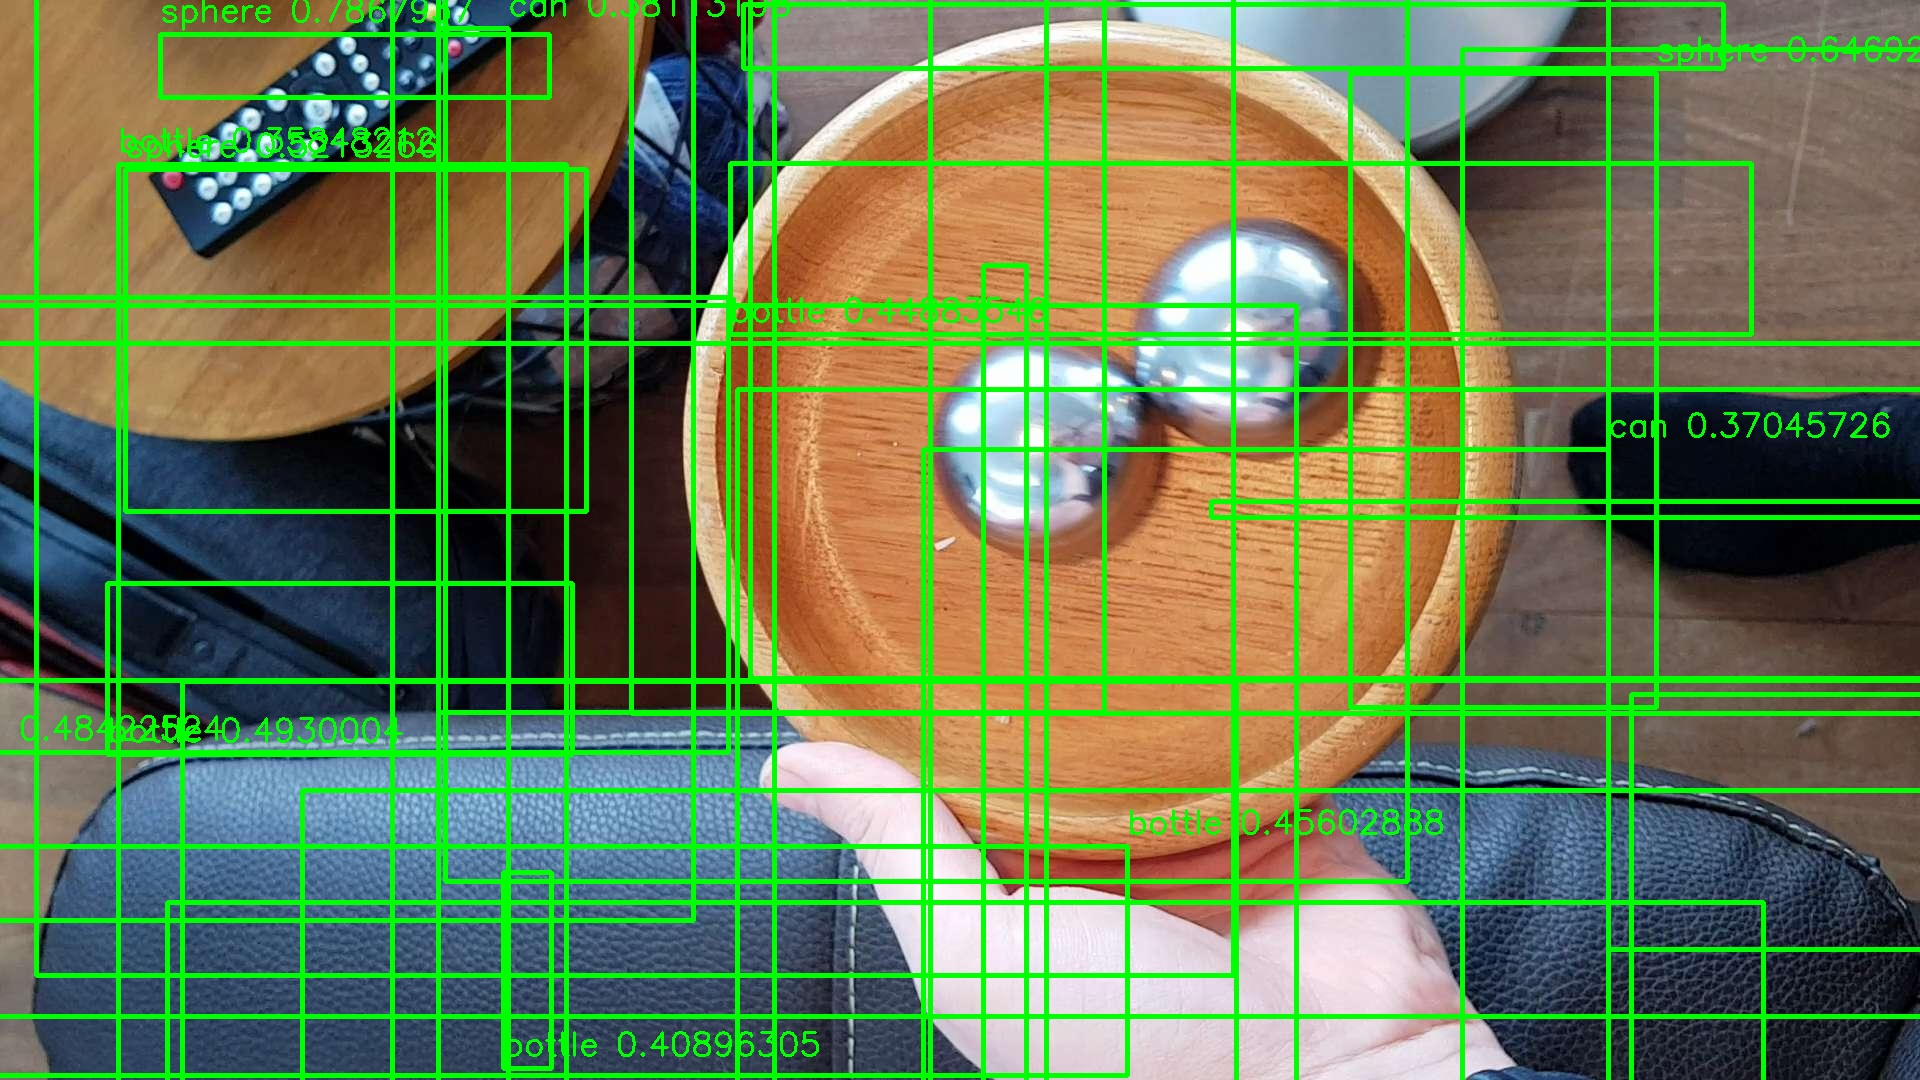
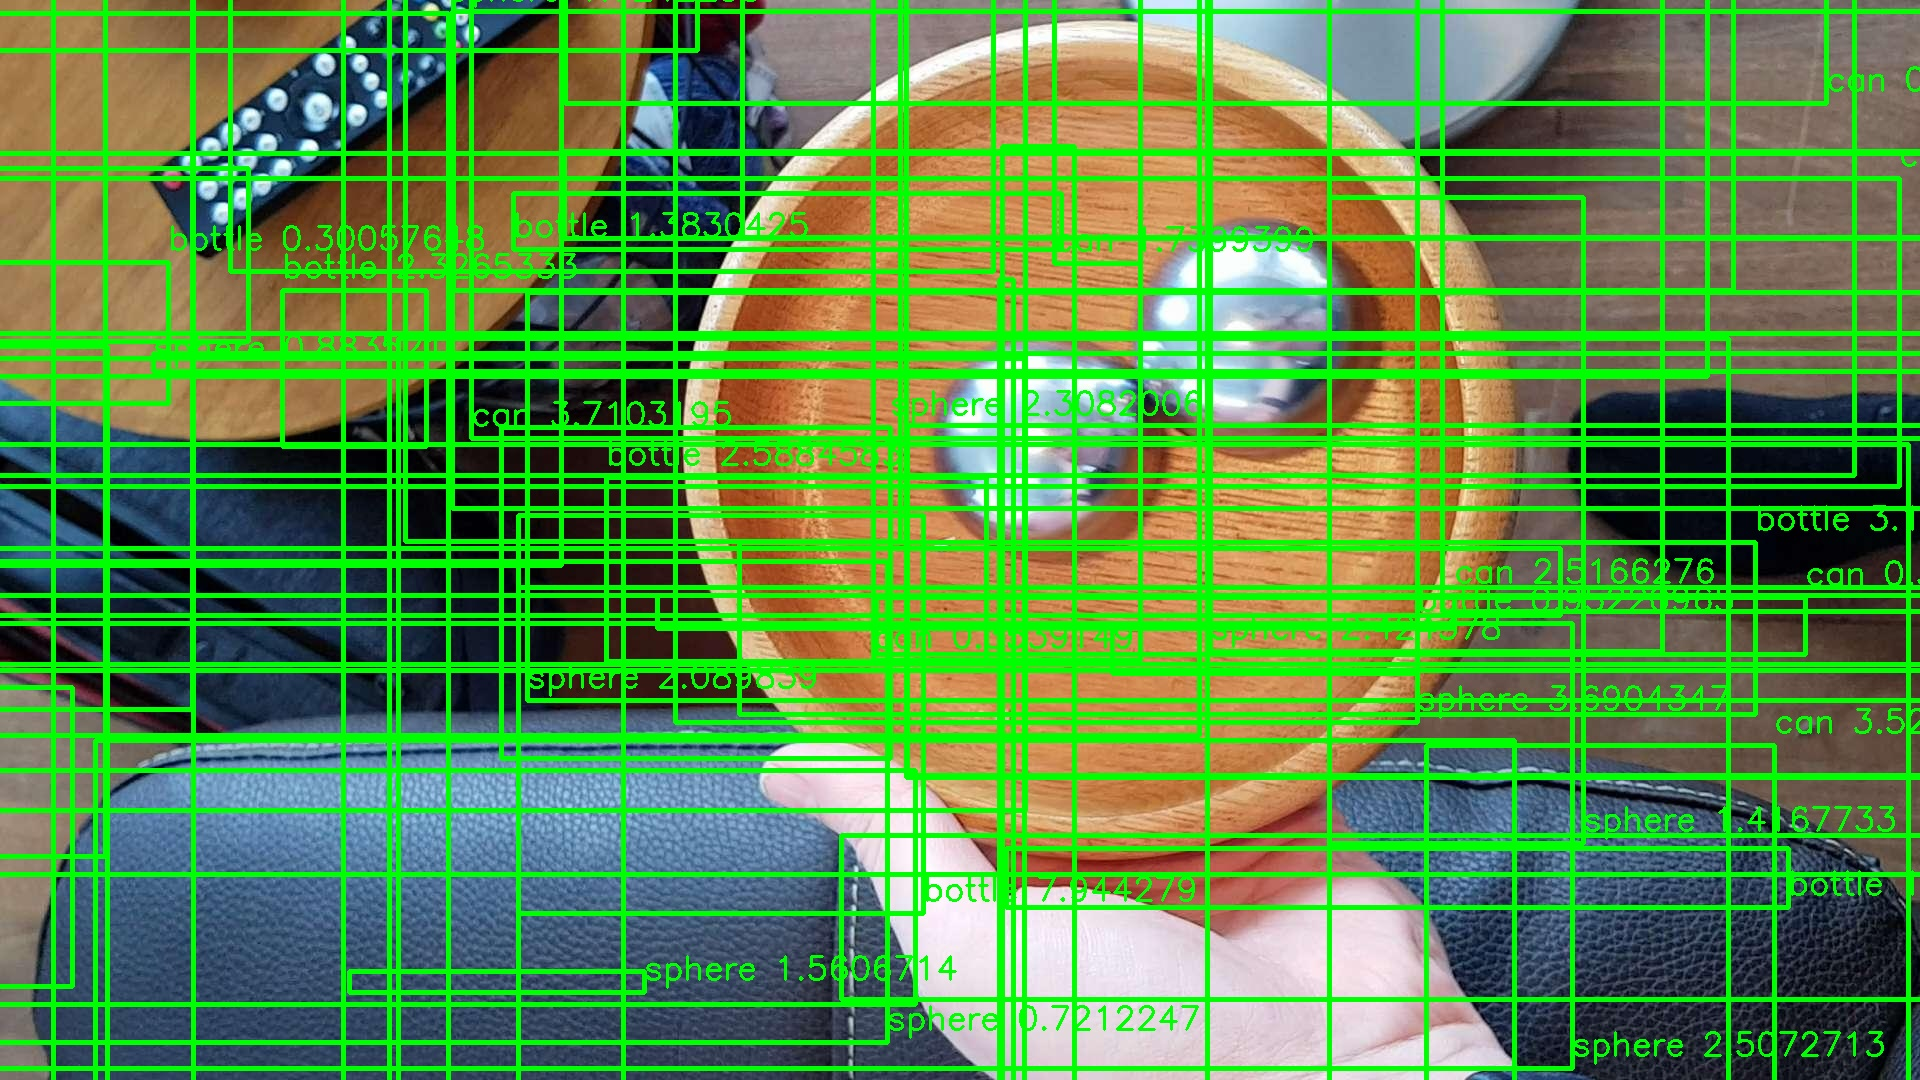
Minor fixes

diff --git a/yolo.py b/yolo.py
@@ -127,8 +127,8 @@ class YOLO(object):
 
         image = normalizeImage(image)
 
-        input_image = image[:, :, ::-1]  # Reverses the channels
-        input_image = np.expand_dims(input_image, 0)
+        # input_image = image[:, :, ::-1]  # Reverses the channels
+        input_image = np.expand_dims(image, 0)
 
         netout = self.model.predict([input_image])[0]
         boxes = decode_netout(netout, self.nb_class)
@@ -302,7 +302,7 @@ class YOLO(object):
                                      monitor='val_loss',
                                      verbose=1,
                                      save_best_only=True,
-                                     save_weights_only=True
+                                     save_weights_only=True,
                                      mode='min',
                                      period=1)
         tensorboard = TensorBoard(log_dir=os.path.expanduser('~/logs/'),
@@ -341,6 +341,11 @@ class YOLO(object):
 
     def custom_loss(self, y_true, y_pred):
         mask_shape = tf.shape(y_true)[:4] #Masking out the four dimension Batch, width, height, num_box
+
+        # cell_x = tf.to_float(tf.reshape(tf.tile(tf.range(self.grid_w), [self.grid_h]), (1, self.grid_h, self.grid_w, 1, 1)))
+        # cell_y = tf.transpose(cell_x, (0,2,1,3,4))
+
+        # cell_grid = tf.tile(tf.concat([cell_x,cell_y], -1), [self.batch_size, 1, 1, self.nb_box, 1])
 
         """
         Load prediction

diff --git a/utils.py b/utils.py
@@ -67,8 +67,8 @@ def decode_netout(netout, nb_class, obj_threshold=0.3, nms_threshold=0.3):
     boxes = []
     
     # decode the output by the network
-    netout[..., 4]  = _sigmoid(netout[..., 4])
-    netout[..., 5:] = netout[..., 4][..., np.newaxis] * _softmax(netout[..., 5:])
+    netout[..., 4]  = netout[..., 4]
+    netout[..., 5:] = netout[..., 4][..., np.newaxis] * netout[..., 5:]
     netout[..., 5:] *= netout[..., 5:] > obj_threshold
     
     for row in range(grid_h):
@@ -81,8 +81,8 @@ def decode_netout(netout, nb_class, obj_threshold=0.3, nms_threshold=0.3):
                     # first 4 elements are x, y, w, and h
                     x, y, w, h = netout[row,col,boxIndex,:4]
 
-                    x = (col + _sigmoid(x)) / grid_w # center position, unit: image width
-                    y = (row + _sigmoid(y)) / grid_h # center position, unit: image height
+                    x = (col + x) / grid_w # center position, unit: image width
+                    y = (row + y) / grid_h # center position, unit: image height
                     confidence = netout[row,col,boxIndex,4]
                     
                     box = BoundBox(x-w/2, y-h/2, x+w/2, y+h/2, confidence, classes)

diff --git a/dataHandler.py b/dataHandler.py
@@ -119,6 +119,8 @@ class BatchGenerator(Sequence):
 
                     grid_x = int(np.floor(center_x))
                     grid_y = int(np.floor(center_y))
+                    center_x = center_x % 1.
+                    center_y = center_y % 1.
 
                     if grid_x < self.config['GRID_W'] and grid_y < self.config['GRID_H']:
                         obj_indx  = self.config['LABELS'].index(obj['name'])
